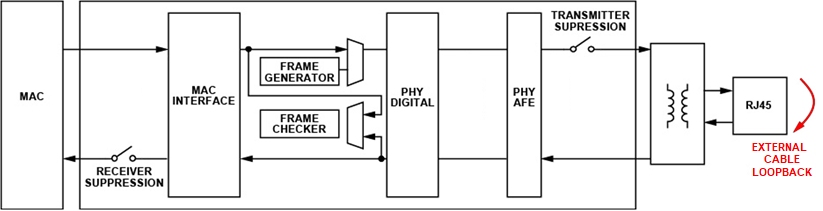
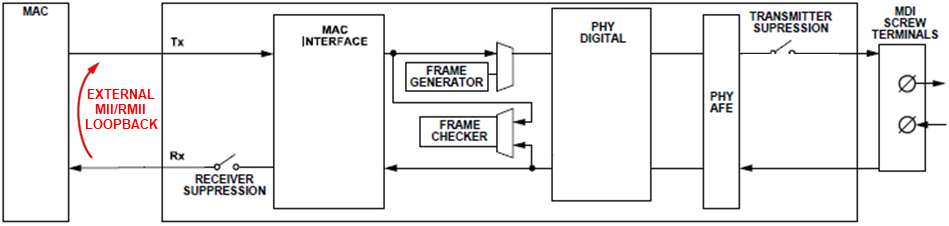
Loopback images

Changed region(s): [[0.0, 0.0, 1.0, 0.9953]]

diff --git a/ADIN1100-Eval/Views/Loopback.xaml b/ADIN1100-Eval/Views/Loopback.xaml
@@ -84,11 +84,11 @@
 
                     <telerik:RadComboBox x:Name="cboLoopback" SelectedIndex="0" Height="23" VerticalAlignment="Top" Margin="0,0,10,0" Command="{Binding LocalLoopbackCommand}" >
                         <telerik:RadComboBoxItem Content="None" x:Name="OFF"/>
-                        <!--<telerik:RadComboBoxItem Content="MII" x:Name="MII"/>-->
-                        <telerik:RadComboBoxItem Content="Digital" x:Name="Digital"/>
-                        <telerik:RadComboBoxItem Content="Line Driver" x:Name="LineDriver"/>
-                        <telerik:RadComboBoxItem Content="External Cable" x:Name="ExtCable"/>
-                        <telerik:RadComboBoxItem Content="Remote"/>
+                        <telerik:RadComboBoxItem Content="MAC I/F Remote" x:Name="MacRemote"/>
+                        <telerik:RadComboBoxItem Content="MAC I/F" x:Name="MAC"/>
+                        <telerik:RadComboBoxItem Content="PCS" x:Name="Digital"/>
+                        <telerik:RadComboBoxItem Content="PMA" x:Name="LineDriver"/>
+                        <telerik:RadComboBoxItem Content="External MII/RMII" x:Name="ExtCable"/>
                         <telerik:RadComboBox.CommandParameter>
                             <MultiBinding Converter="{StaticResource localLoopbackParametersConverter}">
                                 <MultiBinding.Bindings>

diff --git a/TargetInterface/FirmwareAPI.cs b/TargetInterface/FirmwareAPI.cs
@@ -151,19 +151,29 @@ namespace TargetInterface
         public enum LoopBackMode
         {
             /// <summary>
-            /// Digital
+            /// Digital / PCS
             /// </summary>
             Digital,
 
             /// <summary>
-            /// LineDriver
+            /// LineDriver / PMA
             /// </summary>
             LineDriver,
 
             /// <summary>
-            /// ExtCable
+            /// ExtCable / ExtMII/RMII
             /// </summary>
             ExtCable,
+
+            /// <summary>
+            /// MAC I/F Remote
+            /// </summary>
+            MacRemote,
+
+            /// <summary>
+            /// MAC I/F
+            /// </summary>
+            MAC,
 
             /// <summary>
             /// OFF
@@ -2318,17 +2328,7 @@ namespace TargetInterface
 
             TargetInfoItem connectedDevice = new TargetInfoItem(this.deviceSettingsUp.DetectedDevice.ItemName);
             connectedDevice.IsAvailable = true;
-            //  string voltageCap = (tenSpE2p4VoltCapable == true) ? "2.4V Capable" : "1V Capable";
             connectedDevice.ItemContent = deviceType.ToString() + "   \n" + "PHY Addr:" + this.deviceConnection.GetMDIOAddress().ToString();
-            //TargetInfoItem tenSpe2p4DevCapable = new TargetInfoItem("");
-            //if (this.tenSpE2p4VoltCapable == true)
-            //{
-            //    tenSpe2p4DevCapable.ItemContent = "2.4V Capable";
-            //}
-            //else
-            //{
-            //    tenSpe2p4DevCapable.ItemContent = "1V Capable";
-            //}
 
             this.deviceSettingsUp.DetectedDevice = connectedDevice;
 

diff --git a/ADIN1100-Eval/Themes/Converters/ImageConverter.cs b/ADIN1100-Eval/Themes/Converters/ImageConverter.cs
@@ -26,17 +26,20 @@ namespace ADIN1100_Eval.Themes.Converters
                     case "None":
                         fileName = "NoLoopback";
                         break;
-                    case "Digital":
-                        fileName = "DigitalLoopback";
+                    case "PMA":
+                        fileName = "PMALoopback";
                         break;
-                    case "Line Driver":
-                        fileName = "DriverLoopback";
+                    case "PCS":
+                        fileName = "PCSLoopback";
                         break;
-                    case "External Cable":
+                    case "MAC I/F":
+                        fileName = "MACLoopback";
+                        break;
+                    case "MAC I/F Remote":
+                        fileName = "MACRemoteLoopback";
+                        break;
+                    case "External MII/RMII":
                         fileName = "ExternalLoopback";
-                        break;
-                    case "Remote":
-                        fileName = "RemoteLoopback";
                         break;
                     default:
                         fileName = "NoLoopback";
